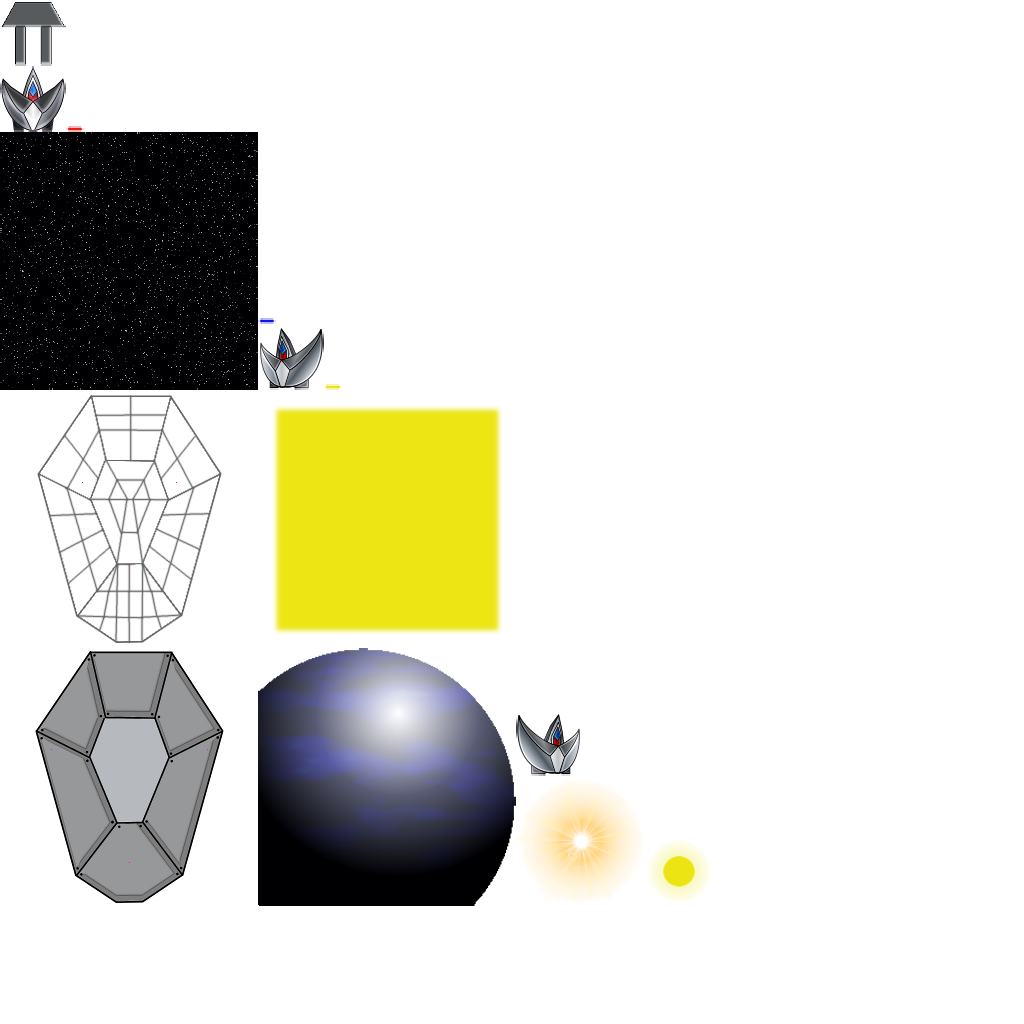
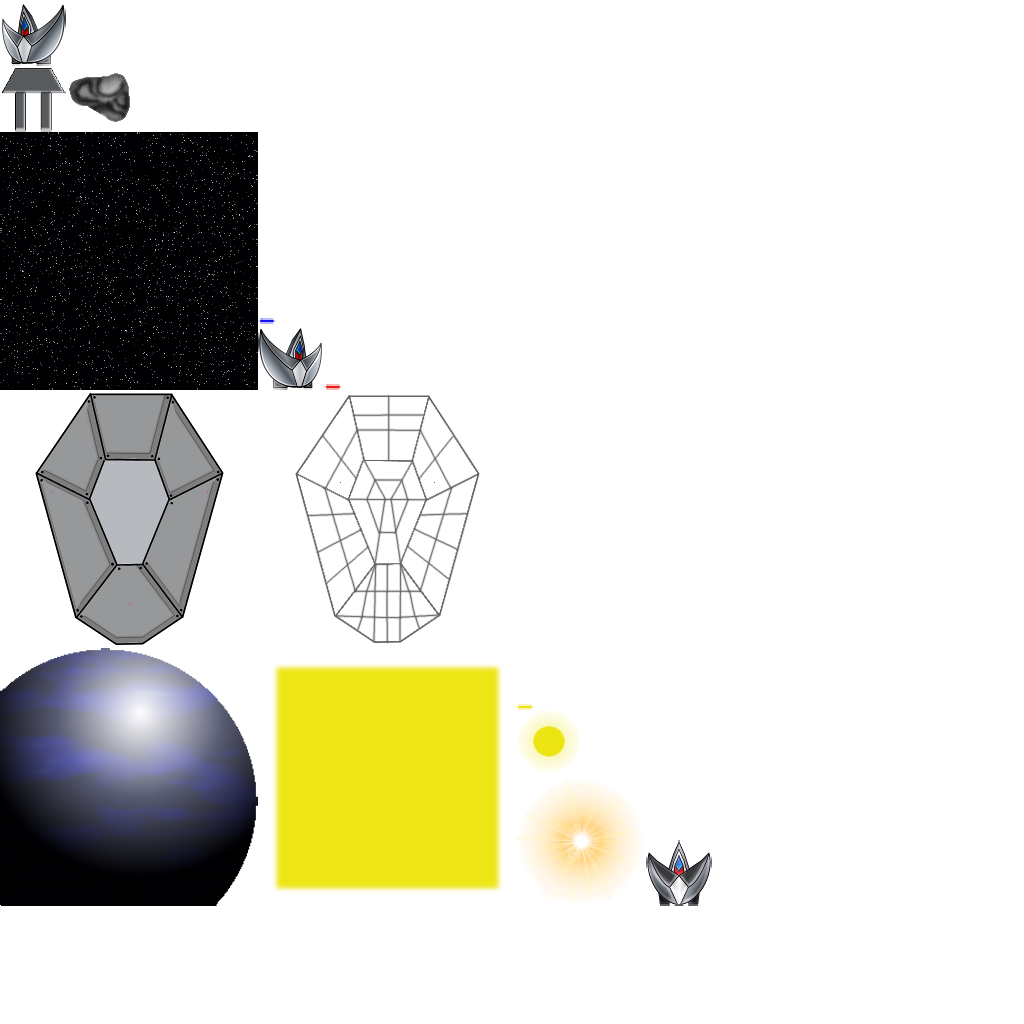
Gestion des fonctions de déplacement d'objets. Passage sur une autre librairie.

Changed region(s): [[0.0, 0.3125, 0.5625, 0.9062], [0.0, 0.0, 0.125, 0.125], [0.625, 0.8125, 0.7188, 0.9062]]

diff --git a/alanparsons2/src/com/MRK/alanparsons2/models/BackgroundElement.java b/alanparsons2/src/com/MRK/alanparsons2/models/BackgroundElement.java
@@ -15,14 +15,7 @@ public class BackgroundElement implements Comparable<BackgroundElement> {
 	private String xFormula, yFormula;
 	private float shiftx, shifty;
 	private TextureRegion texture;
-	
-//	public boolean isMoveable() {
-//		return moveable;
-//	}
-//	
-//	public void setMoveable(boolean moveable) {
-//		this.moveable = moveable;
-//	}
+	private float time = 0;
 	
 	public boolean isRepeated() {
 		return isRepeated;
@@ -76,8 +69,8 @@ public class BackgroundElement implements Comparable<BackgroundElement> {
 		if (!moving)
 			return x;
 		else {
-			interpreter.evaluate(getxFormula());
-			return interpreter.getInt("x");
+			interpreter.evaluate(getxFormula(), new String[]{"t"}, new float[]{(time += Gdx.graphics.getDeltaTime())});
+			return interpreter.getInt();
 		}
 	}
 	
@@ -89,8 +82,8 @@ public class BackgroundElement implements Comparable<BackgroundElement> {
 		if (!moving)
 			return y;
 		else {
-			interpreter.evaluate(getxFormula());
-			return interpreter.getInt("y");
+			interpreter.evaluate(getyFormula(), new String[]{"t"}, new float[]{(time += Gdx.graphics.getDeltaTime())});
+			return interpreter.getInt();
 		}
 	}
 	
@@ -99,10 +92,7 @@ public class BackgroundElement implements Comparable<BackgroundElement> {
 	}
 	
 	public String getxFormula() {
-		if (xFormula.toLowerCase().contains("t"))
-			return xFormula.replaceAll("t", String.valueOf(Gdx.graphics.getDeltaTime()));
-		else
-			return xFormula;
+		return xFormula;
 	}
 
 	public void setxFormula(String xFormula) {
@@ -111,10 +101,7 @@ public class BackgroundElement implements Comparable<BackgroundElement> {
 	}
 
 	public String getyFormula() {
-		if (yFormula.toLowerCase().contains("t"))
-			return yFormula.replaceAll("t", String.valueOf(Gdx.graphics.getDeltaTime()));
-		else
-			return yFormula;
+		return yFormula;
 	}
 
 	public void setyFormula(String yFormula) {
@@ -154,8 +141,4 @@ public class BackgroundElement implements Comparable<BackgroundElement> {
 			return 1;
 		return 0;
 	}
-
-//	public void draw(SpriteBatch batch, float deltax, float deltay) {
-//		batch.draw(texture, getX() - deltax * shiftx, getY() - deltay * shifty, getWidth(), getHeight());
-//	}
 }

diff --git a/alanparsons2/src/com/MRK/alanparsons2/helpers/PathInterpreter.java b/alanparsons2/src/com/MRK/alanparsons2/helpers/PathInterpreter.java
@@ -1,16 +1,25 @@
 package com.MRK.alanparsons2.helpers;
 
-import bsh.EvalError;
-import bsh.Interpreter;
+import de.congrace.exp4j.Calculable;
+import de.congrace.exp4j.ExpressionBuilder;
+import de.congrace.exp4j.UnknownFunctionException;
+import de.congrace.exp4j.UnparsableExpressionException;
 
 public class PathInterpreter {
 
-	private Interpreter interpreter;
+	private Calculable calc;
 	
-	public boolean evaluate(String command) {
+	public boolean evaluate(String command, String[] vars, float[] values) {
+		ExpressionBuilder expr;
 		try {
-			interpreter.eval(command);
-		} catch (EvalError e) {
+			expr = new ExpressionBuilder(command);
+			for  (int num = 0; num < vars.length; num++)
+				expr.withVariable(vars[num], values[num]);
+			calc = expr.build();
+		} catch (UnknownFunctionException e) {
+			e.printStackTrace();
+			return false;
+		} catch (UnparsableExpressionException e) {
 			e.printStackTrace();
 			return false;
 		}
@@ -18,15 +27,7 @@ public class PathInterpreter {
 		return true;
 	}
 	
-	public int getInt(String value) {
-		int ret = 0;
-		try {
-			ret = (Integer)interpreter.get(value);
-		} catch (EvalError eval) {
-			eval.printStackTrace();
-		} catch (ClassCastException cast) {
-			cast.printStackTrace();
-		}
-		return ret;
+	public float getInt() {
+		return (float) calc.calculate();
 	}
 }
